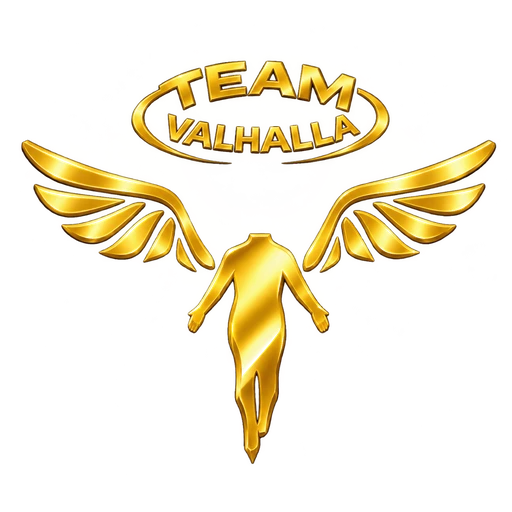
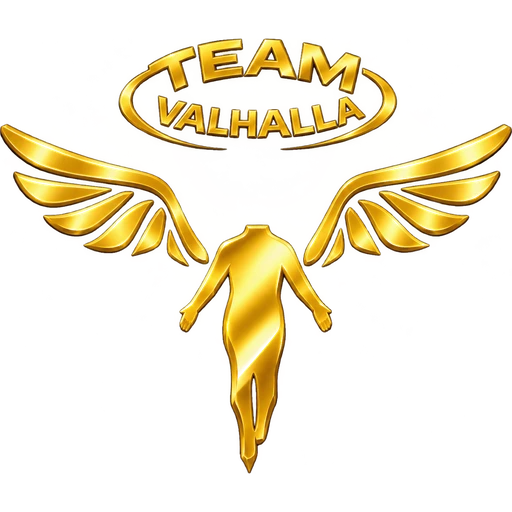
Valhallaz sticker bigger (118px phone / 170px desktop, trimmed edges), admin Nov 28
Claude-Session: https://claude.ai/code/session_01KaEc1vm2MGiZubSQCpuHUE

Changed region(s): [[0.0, 0.0625, 1.0, 0.9375]]

diff --git a/index.html b/index.html
@@ -2088,7 +2088,7 @@ background-color:#171a1e!important
 <style id="msr-omninox-vip">
 #app .prof.msr-omninox-profile{position:relative;padding-right:150px!important}
 #app .prof.msr-omninox-profile>.msr-team-gold-sticker{position:absolute!important;right:16px;top:50%;transform:translateY(-50%);width:112px;height:112px;z-index:5;border:0;background:transparent;cursor:zoom-in;filter:drop-shadow(0 0 13px rgba(238,178,54,.33))}
-#app .prof.msr-omninox-profile>.msr-team-gold-sticker img{width:100%;height:100%;object-fit:contain}
+#app .prof.msr-omninox-profile>.msr-team-gold-sticker img{width:100%;height:100%;object-fit:contain}#app .prof.msr-omninox-profile.msr-valhallaz-profile{padding-right:190px!important}#app .prof.msr-omninox-profile.msr-valhallaz-profile>.msr-team-gold-sticker{width:170px;height:170px;right:10px}@media(max-width:650px){#app .prof.msr-omninox-profile.msr-valhallaz-profile{padding-right:120px!important}#app .prof.msr-omninox-profile.msr-valhallaz-profile>.msr-team-gold-sticker{width:118px;height:118px;right:2px}}
 @media(max-width:650px){#app .prof.msr-omninox-profile{padding-right:88px!important}#app .prof.msr-omninox-profile>.msr-team-gold-sticker{right:5px;width:76px;height:76px}}
 </style>
 <style id="msr-team-gold-sticker">
@@ -8793,8 +8793,8 @@ var tag=normVerified(t.tag||'');var name=normVerified(t.n||'');var team=tag==='4
         if(clanCode==='DS_433CD7FC8060E08212804DE5'){ // Valhallaz VIP+ golden sticker (admin Nov 28); same placement as Omninox
           var vhProf=node.querySelector('.prof');
           if(vhProf&&!vhProf.querySelector(':scope>.msr-team-gold-sticker')){
-            vhProf.classList.add('msr-omninox-profile');
-            var vhSrc='assets/valhallaz_gold_sticker.webp?v=1';
+            vhProf.classList.add('msr-omninox-profile','msr-valhallaz-profile');
+            var vhSrc='assets/valhallaz_gold_sticker.webp?v=2';
             vhProf.appendChild(h('button',{type:'button',class:'msr-team-gold-sticker','aria-label':'Enlarge Valhallaz golden sticker',onclick:function(){
               var d=document.createElement('dialog');d.className='msr-gold-sticker-dialog';
               d.appendChild(h('button',{type:'button',class:'msr-gold-sticker-close',onclick:function(){d.close();}},'\u00d7'));
